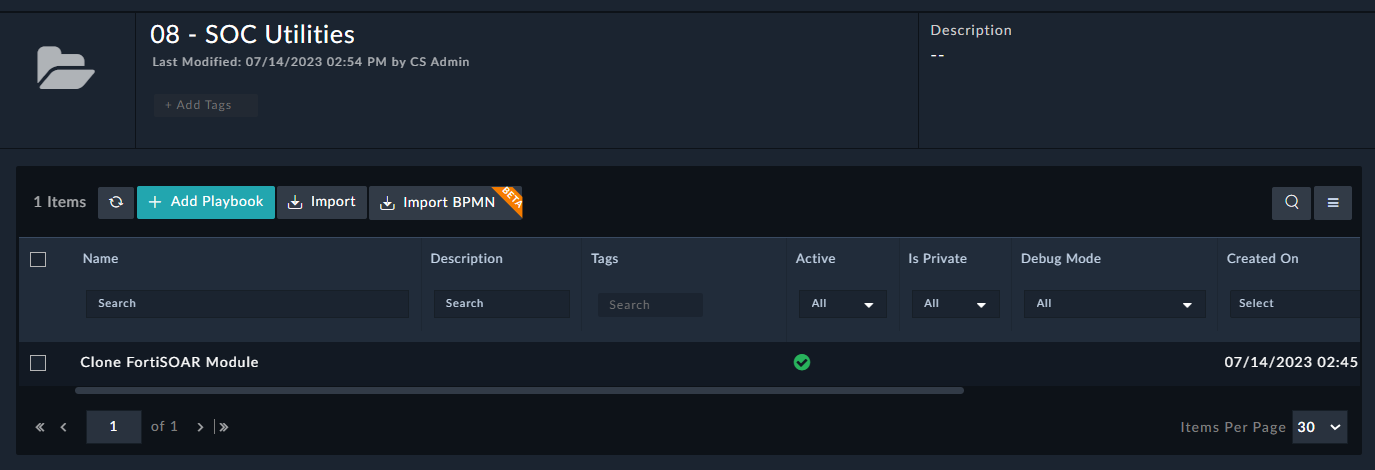
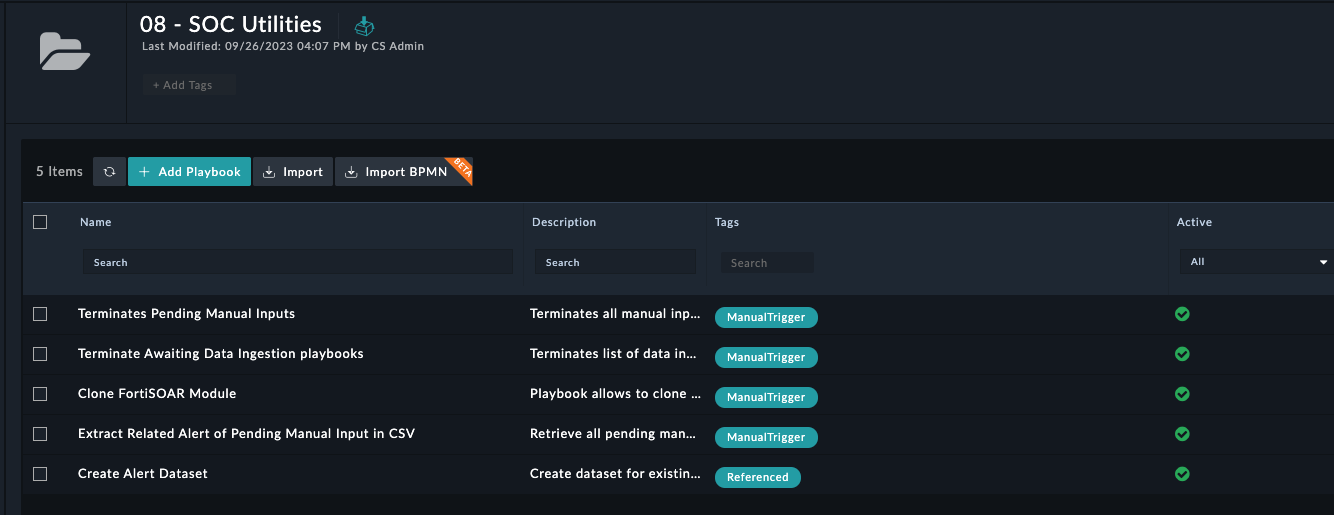
Added New playboooks related Doc Contents

diff --git a/docs/usage.md b/docs/usage.md
@@ -85,5 +85,54 @@ The new module is now visible in the navigation pane.
 
 ![Alt text](./res/navigation_icon.png)
 
+## Utility Playbook &mdash; Terminates Pending Manual Inputs
+This playbook gives you the ability to terminate all manual input playbooks that are pending user action/input that have been created before the specified timestamp.
+
+
+1. Click the  **Terminates Pending Manual Inputs** playbook to open it
+
+2. Click the FortiSOAR Alerts
+
+3. Click the **Execute** Button
+
+4. Select the **Terminates Pending Manual Inputs** playbook for trigger
+
+![Terminate Manual Input](./res/trigger_terminate_manual_input.png)
+
+5. Select the DateTime using which you want to delete manual input records that have been created before the specified timestamp.
+![TillDate](./res/till_date.png)
+6. After successfully executing the playbook, Terminates all manual input playbooks awaiting for user action/input up to the timestamp.
+![Result](./res/output_teminates_manual_input_playbooks.png)
+
+
+## Utility Playbook &mdash; Terminate Awaiting Data Ingestion playbooks
+This playbook gives you the ability to terminate a list of data ingestion playbooks which are stuck in awaiting state till the specified last x minutes.
+
+1. Click the  **Terminate Awaiting Data Ingestion playbooks** playbook to open it
+
+2. Click the FortiSOAR Alerts
+
+3. Click the **Execute** Button
+
+4. Select the **Terminate Awaiting Data Ingestion playbooks** playbook for trigger
+
+![Terminate Data Ingestion Playbooks](./res/terminate_dl_playbooks.png)
+
+5. Provides a last x minutes, Terminate a list of data ingestion playbooks which are stuck in awaiting state till the specified last x minutes.
+![Terminate Data Ingestion Playbooks](./res/last_x_minute.png)
+6. After successfully executing the playbook, Terminate a list of data ingestion playbooks which are stuck in awaiting state till the specified last x minutes.
+![Result](./res/output_terminate_dl_playbooks.png)
+
 | [Installation](./setup.md#installation) | [Configuration](./setup.md#configuration) | [Contents](./contents.md) |
 |-----------------------------------------|-------------------------------------------|---------------------------|
+
+## Utility Playbook &mdash; Extract Related Alert of Pending Manual Input in CSV
+This playbook gives you the ability to retrieves all pending manual input records for user action/input and generates and stores CSV attachments for related and missing alerts and stores them in the FortiSOAR attachment module.
+2. Click the  **Extract Related Alert of Pending Manual Input in CSV** playbook to open it
+
+3. Click the play button at the top right
+![Play Button](./res/play_button.png)
+5. After successfully executing the playbook, Retrieves all pending manual input records for user action/input and generates and stores CSV attachments for relevant and missing notifications and stores them in the FortisOAR attachment module.
+![Play Button](./res/csv_attachment.png)
+
+

diff --git a/docs/contents.md b/docs/contents.md
@@ -10,9 +10,12 @@ The **SOC Utilities** solution pack contains the following resources:
 |08 - SOC Utilities |
 |:---------------------------------------------|
 
-| Playbook Name                                                                | Description                                                                                                                                     |
-|:-----------------------------------------------------------------------------|:------------------------------------------------------------------------------------------------------------------------------------------------|
-| Clone FortiSOAR Module                                       | Playbook allows to clone a FortiSOAR module. |
+| Playbook Name                                        | Description                                                                                                                   |
+|:-----------------------------------------------------|:------------------------------------------------------------------------------------------------------------------------------|
+| Clone FortiSOAR Module                               | Playbook allows to clone a FortiSOAR module.                                                                                  |
+| Terminates Pending Manual Inputs                     | Terminates all manual input pending for user action/inputs that have been created before the specified timestamp.             |
+| Terminate Awaiting Data Ingestion playbooks          | Terminates list of data ingestion playbooks which are stuck in awaiting state from last x minutes                             |                                                                      |
+| Extract Related Alert of Pending Manual Input in CSV | Retrieve all pending manual input records for user action/input and generates CSV attachments for related and missing alerts. |
 
 | [Installation](./setup.md#installation) | [Configuration](./setup.md#configuration) | [Usage](./usage.md) |
 |----------------------------------------------|------------------------------------------------|--------------------------|
